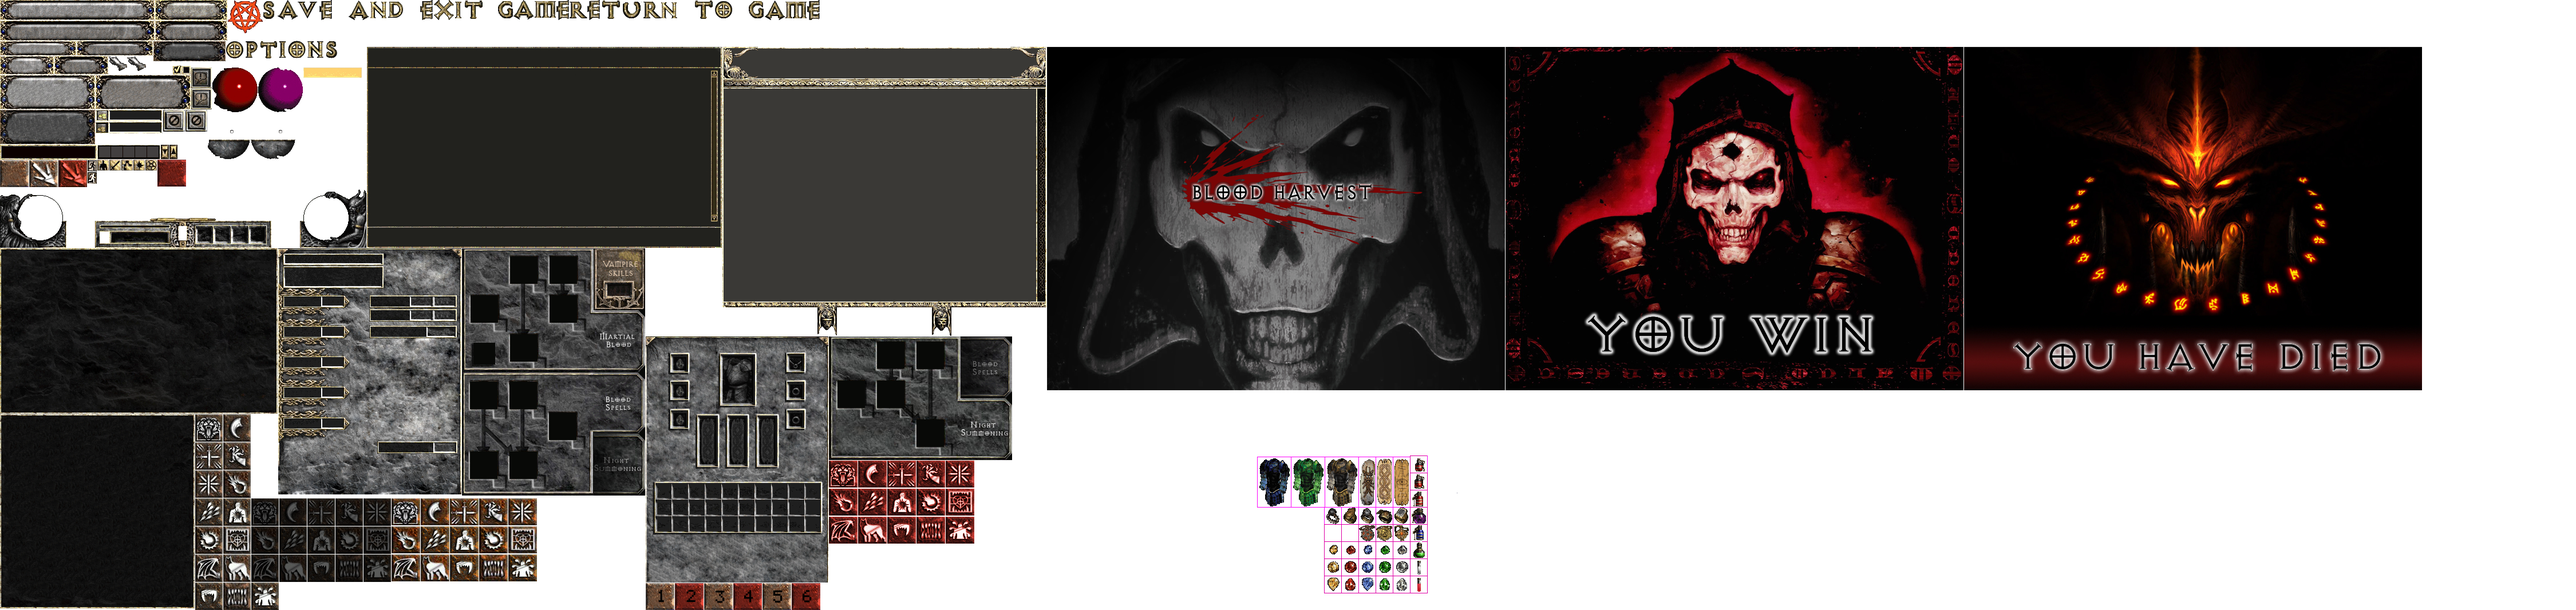
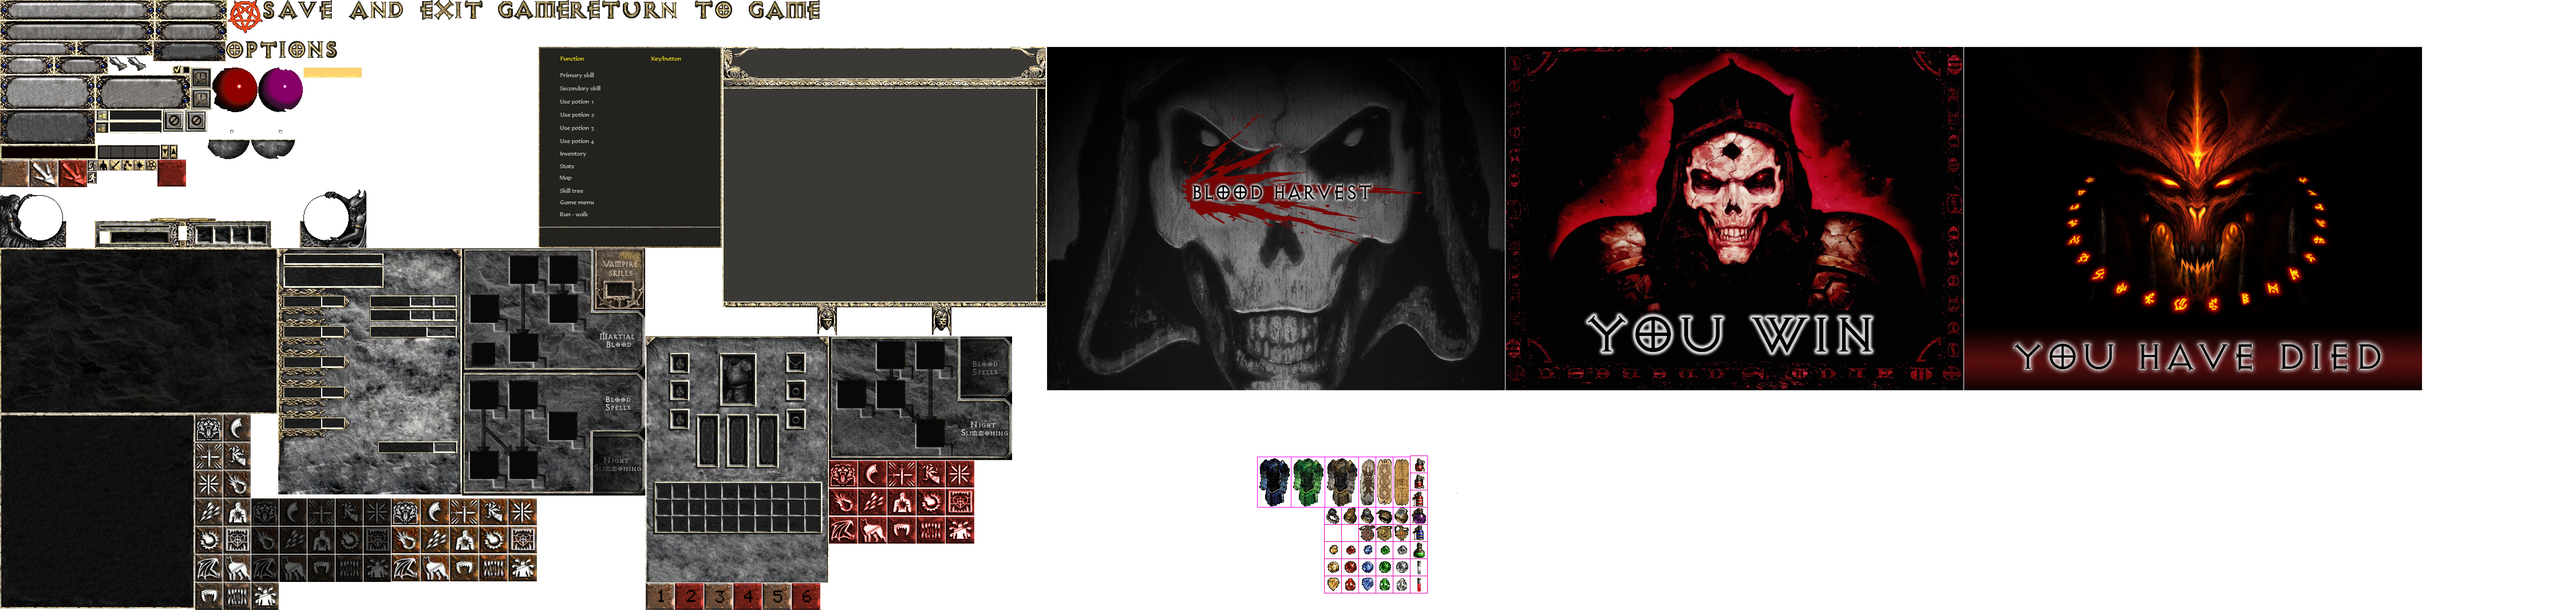
Controls Window

Changed region(s): [[0.1244, 0.0619, 0.28, 0.4334]]

diff --git a/Diablo2/Motor2D/snIntro.cpp b/Diablo2/Motor2D/snIntro.cpp
@@ -12,7 +12,7 @@
 #include "j1Gui.h"
 #include "j1Textures.h"
 #include "j1Audio.h"
-
+#include "j1Fonts.h"
 
 
 snIntro::snIntro() :j1Scene(INTRO)
@@ -84,8 +84,98 @@ bool snIntro::Start()
 
 	//-----------
 	
+	//Controls Window
 
+	controls_window = App->gui->AddGuiImage({ 150, 20 }, { 941, 82, 320, 350 }, NULL, this);
+	intro_gui.push_back(controls_window);
 	
+	//PrimarySkill Label
+	primary_skill_image = App->gui->AddGuiImage({ 140, 45 }, { 3450, 960, 160, 10 }, controls_window, this);
+	primary_skill = App->gui->AddGuiLabel("LEFT CLICK", App->font->stats, { 0, 0 }, primary_skill_image, FONT_WHITE, this);
+	primary_skill->Center(true, true);
+	intro_gui.push_back(primary_skill);
+	intro_gui.push_back(primary_skill_image);
+
+	//SecondarySkill Label
+	secondary_skill_image = App->gui->AddGuiImage({140, 68 }, { 3450, 960, 160, 10 }, controls_window, this);
+	secondary_skill = App->gui->AddGuiLabel("RIGHT CLICK", App->font->stats, { 0, 0 }, secondary_skill_image, FONT_WHITE, this);
+	secondary_skill->Center(true, true);
+	intro_gui.push_back(secondary_skill);
+	intro_gui.push_back(secondary_skill_image);
+
+	//Potion 1 Label
+	potion_image = App->gui->AddGuiImage({140, 91 }, { 3450, 960, 160, 10 }, controls_window, this);
+	potion = App->gui->AddGuiLabel("1", App->font->stats, { 0, 0 }, potion_image, FONT_WHITE, this);
+	potion->Center(true, true);
+	intro_gui.push_back(potion);
+	intro_gui.push_back(potion_image);
+
+	//Potion 2 Label
+	potion_two_image = App->gui->AddGuiImage({140, 113 }, { 3450, 960, 160, 10 }, controls_window, this);
+	potion_two = App->gui->AddGuiLabel("2", App->font->stats, { 0, 0 }, potion_two_image, FONT_WHITE, this);
+	potion_two->Center(true, true);
+	intro_gui.push_back(potion_two);
+	intro_gui.push_back(potion_two_image);
+
+	//Potion 3 Label
+	potion_three_image = App->gui->AddGuiImage({140, 136 }, { 3450, 960, 160, 10 }, controls_window, this);
+	potion_three = App->gui->AddGuiLabel("3", App->font->stats, { 0, 0 }, potion_three_image, FONT_WHITE, this);
+	potion_three->Center(true, true);
+	intro_gui.push_back(potion_three);
+	intro_gui.push_back(potion_three_image);
+
+	//Potion 4 Label
+	potion_four_image = App->gui->AddGuiImage({140, 159 }, { 3450, 960, 160, 10 }, controls_window, this);
+	potion_four = App->gui->AddGuiLabel("4", App->font->stats, { 0, 0 }, potion_four_image, FONT_WHITE, this);
+	potion_four->Center(true, true);
+	intro_gui.push_back(potion_four);
+	intro_gui.push_back(potion_four_image);
+
+	//Inventory Label
+	inventory_image = App->gui->AddGuiImage({140, 183 }, { 3450, 960, 160, 10 }, controls_window, this);
+	inventory = App->gui->AddGuiLabel("I", App->font->stats, { 0, 0 }, inventory_image, FONT_WHITE, this);
+	inventory->Center(true, true);
+	intro_gui.push_back(inventory);
+	intro_gui.push_back(inventory_image);
+
+	//Stats Label
+	stats_image = App->gui->AddGuiImage({140, 205 }, { 3450, 960, 160, 10 }, controls_window, this);
+	stats = App->gui->AddGuiLabel("C", App->font->stats, { 0, 0 }, stats_image, FONT_WHITE, this);
+	stats->Center(true, true);
+	intro_gui.push_back(stats);
+	intro_gui.push_back(stats_image);
+
+	//Map Label
+	map_image = App->gui->AddGuiImage({140, 225 }, { 3450, 960, 160, 10 }, controls_window, this);
+	map = App->gui->AddGuiLabel("TAB", App->font->stats, { 0, 0 }, map_image, FONT_WHITE, this);
+	map->Center(true, true);
+	intro_gui.push_back(map);
+	intro_gui.push_back(map_image);
+
+	//Skill Tree Label
+	skill_tree_image = App->gui->AddGuiImage({140, 247 }, { 3450, 960, 160, 10 }, controls_window, this);
+	skill_tree = App->gui->AddGuiLabel("S", App->font->stats, { 0, 0 }, skill_tree_image, FONT_WHITE, this);
+	skill_tree->Center(true, true);
+	intro_gui.push_back(skill_tree);
+	intro_gui.push_back(skill_tree_image);
+	
+	//Game Menu Label
+	game_menu_image = App->gui->AddGuiImage({140, 268 }, { 3450, 960, 160, 10 }, controls_window, this);
+	game_menu = App->gui->AddGuiLabel("ESC", App->font->stats, { 0, 0 }, game_menu_image, FONT_WHITE, this);
+	game_menu->Center(true, true);
+	intro_gui.push_back(game_menu);
+	intro_gui.push_back(game_menu_image);
+
+	//Run Label
+	run_image = App->gui->AddGuiImage({140, 287 }, { 3450, 960, 160, 10 }, controls_window, this);
+	run = App->gui->AddGuiLabel("R", App->font->stats, { 0, 0 }, run_image, FONT_WHITE, this);
+	run->Center(true, true);
+	intro_gui.push_back(run);
+	intro_gui.push_back(run_image);
+
+	close_controls = App->gui->AddGuiButton({ 200, 315 }, { 3450, 960, 100, 35 }, { 3450, 960, 100, 35 }, { 3450, 960, 100, 35 }, "Close", App->font->stats,  this,controls_window,FONT_GREEN);
+	controls_window->Desactivate();
+
 
 	return true;
 }
@@ -257,6 +347,11 @@ void snIntro::OnEvent(GuiElement* element, GUI_Event even)
 		{
 			controls_button->button_image.SetTextureRect(controls_button->click_tex);
 			controls_button->button_label.SetLocalPosition({ 75, 8 });
+			
+			if(controls_window->active)
+				controls_window->Desactivate();
+			else
+				controls_window->Activate();
 		}
 			break;
 
@@ -271,8 +366,19 @@ void snIntro::OnEvent(GuiElement* element, GUI_Event even)
 		{
 			controls_button->button_image.SetTextureRect(controls_button->idle_tex);
 			controls_button->button_label.Center(true, true);
+			
 		}
 			break;
+		}
+	}
+	//Exit button
+	if (close_controls == element)
+	{
+		if (EVENT_MOUSE_LEFTCLICK_DOWN == even )
+		{
+
+			controls_window->Desactivate();
+
 		}
 	}
 	//Exit button

diff --git a/Diablo2/Motor2D/snIntro.h b/Diablo2/Motor2D/snIntro.h
@@ -58,10 +58,37 @@ private:
 	GuiButton* controls_button = NULL;
 	GuiButton* exit_button = NULL;
 	GuiImage* background = NULL;
+	GuiImage* controls_window = NULL;
 	GuiAnimation* titleAnim = NULL;
 	SDL_Texture* title = NULL;
 	Animation logo;
+	GuiLabel* primary_skill = NULL;
+	GuiLabel* secondary_skill = NULL;
+	GuiLabel* potion = NULL;
+	GuiLabel* potion_two = NULL;
+	GuiLabel* potion_three = NULL;
+	GuiLabel* potion_four = NULL;
+	GuiLabel* inventory = NULL;
+	GuiLabel* stats = NULL;
+	GuiLabel* map = NULL;
+	GuiLabel* skill_tree = NULL;
+	GuiLabel* game_menu = NULL;
+	GuiLabel* run = NULL;
 
+	GuiImage* primary_skill_image = NULL;
+	GuiImage* secondary_skill_image = NULL;
+	GuiImage* potion_image = NULL;
+	GuiImage* potion_two_image = NULL;
+	GuiImage* potion_three_image = NULL;
+	GuiImage* potion_four_image = NULL;
+	GuiImage* inventory_image = NULL;
+	GuiImage* stats_image = NULL;
+	GuiImage* map_image = NULL;
+	GuiImage* skill_tree_image = NULL;
+	GuiImage* game_menu_image = NULL;
+	GuiImage* run_image = NULL;
+
+	GuiButton* close_controls = NULL;
 	//NOTE : added this list to iterate easily the gui_elements of the scene. Ask ric about a more optimal way to control the UI
 	//NOTE: do the button class so it can have the diferent images and even a label, so it doesn?t interfere with the rest of the ui
 	list<GuiElement*> intro_gui;

diff --git a/Diablo2/Motor2D/j1Gui.h b/Diablo2/Motor2D/j1Gui.h
@@ -49,7 +49,7 @@ public:
 	GuiLabel* AddGuiLabel(p2SString t, _TTF_Font* f, iPoint p, GuiElement* par, SDL_Color color, j1Module* list);
 	GuiLabel* AddGuiLabel(p2SString t, _TTF_Font* f, iPoint p, GuiElement* par, j1Module* list);
 	GuiInputBox* AddGuiInputBox(p2SString t, _TTF_Font* f, iPoint p, int width, SDL_Rect r, iPoint offset, GuiElement* par, j1Module* list);
-	GuiButton* AddGuiButton(iPoint p, SDL_Rect idle_r1, SDL_Rect hover_r1, SDL_Rect click_r1, p2SString t = "", _TTF_Font* f = NULL, j1Module* list = NULL, GuiElement* parent = NULL);
+	GuiButton* AddGuiButton(iPoint p, SDL_Rect idle_r1, SDL_Rect hover_r1, SDL_Rect click_r1, p2SString t = "", _TTF_Font* f = NULL, j1Module* list = NULL, GuiElement* parent = NULL, SDL_Color color = FONT_BLACK);
 	GuiSlider* AddGuiSlider(iPoint p, SDL_Rect tex_1, SDL_Rect tex_2, int width, int thumb_h, iPoint offset, float value, GuiElement* par, j1Module* list);
 	GuiSkill* AddGuiSkill(iPoint p, SDL_Rect r, SDL_Rect r2, Skill* s, GuiElement* par, j1Module* list);
 	GuiMiniMap* AddGuiMiniMap(iPoint p, SDL_Rect r, SDL_Texture* tex, GuiElement* par, j1Module* list);

diff --git a/Diablo2/Motor2D/j1Gui.cpp b/Diablo2/Motor2D/j1Gui.cpp
@@ -315,9 +315,9 @@ GuiInputBox* j1Gui::AddGuiInputBox(p2SString t, _TTF_Font* f, iPoint p, int widt
 	return input;
 }
 
-GuiButton* j1Gui::AddGuiButton(iPoint p, SDL_Rect idle_r1, SDL_Rect hover_r1, SDL_Rect click_r1, p2SString t, _TTF_Font* f , j1Module* list, GuiElement* parent)
+GuiButton* j1Gui::AddGuiButton(iPoint p, SDL_Rect idle_r1, SDL_Rect hover_r1, SDL_Rect click_r1, p2SString t, _TTF_Font* f, j1Module* list, GuiElement* parent, SDL_Color color)
 {
-	GuiButton* button = new GuiButton(p, idle_r1, hover_r1, click_r1, t, f, list, parent);
+	GuiButton* button = new GuiButton(p, idle_r1, hover_r1, click_r1, t, f,color, list, parent);
 	gui_elements.push_back(button);
 	if (button->parent != NULL)button->parent->AddChild(button);
 	return button;

diff --git a/Diablo2/Motor2D/GuiElements.cpp b/Diablo2/Motor2D/GuiElements.cpp
@@ -74,14 +74,13 @@ GuiInputBox::GuiInputBox(p2SString t, _TTF_Font* f, iPoint p, int width, SDL_Rec
 	cursor.x = 0;
 }
 
-GuiButton::GuiButton(iPoint p, SDL_Rect idle_r1, SDL_Rect hover_r1, SDL_Rect click_r1, p2SString t, _TTF_Font* f, j1Module* list, GuiElement* parent)
+GuiButton::GuiButton(iPoint p, SDL_Rect idle_r1, SDL_Rect hover_r1, SDL_Rect click_r1, p2SString t, _TTF_Font* f, SDL_Color color, j1Module* list, GuiElement* parent)
 	: GuiElement(p, idle_r1, GUI_BUTTON, parent, list),
 	  button_image(p, idle_r1, this, NULL),
-	  button_label(t, f, p,FONT_BLACK, this, NULL)
+	  button_label(t, f, p, color, this, NULL)
 {
 	button_image.Center(true, true);
 	button_label.Center(true, true);
-
 	interactable = true;
 
 	idle_tex = idle_r1;

diff --git a/Diablo2/Motor2D/GuiElements.h b/Diablo2/Motor2D/GuiElements.h
@@ -172,7 +172,7 @@ public:
 class GuiButton : public GuiElement
 {
 public:
-	GuiButton(iPoint p, SDL_Rect idle_r1, SDL_Rect hover_r1, SDL_Rect click_r1, p2SString t, _TTF_Font* f, j1Module* list = NULL, GuiElement* parent = NULL);
+	GuiButton(iPoint p, SDL_Rect idle_r1, SDL_Rect hover_r1, SDL_Rect click_r1, p2SString t, _TTF_Font* f, SDL_Color color = FONT_BLACK, j1Module* list = NULL, GuiElement* parent = NULL);
 	~GuiButton(){}
 
 	void Draw();
